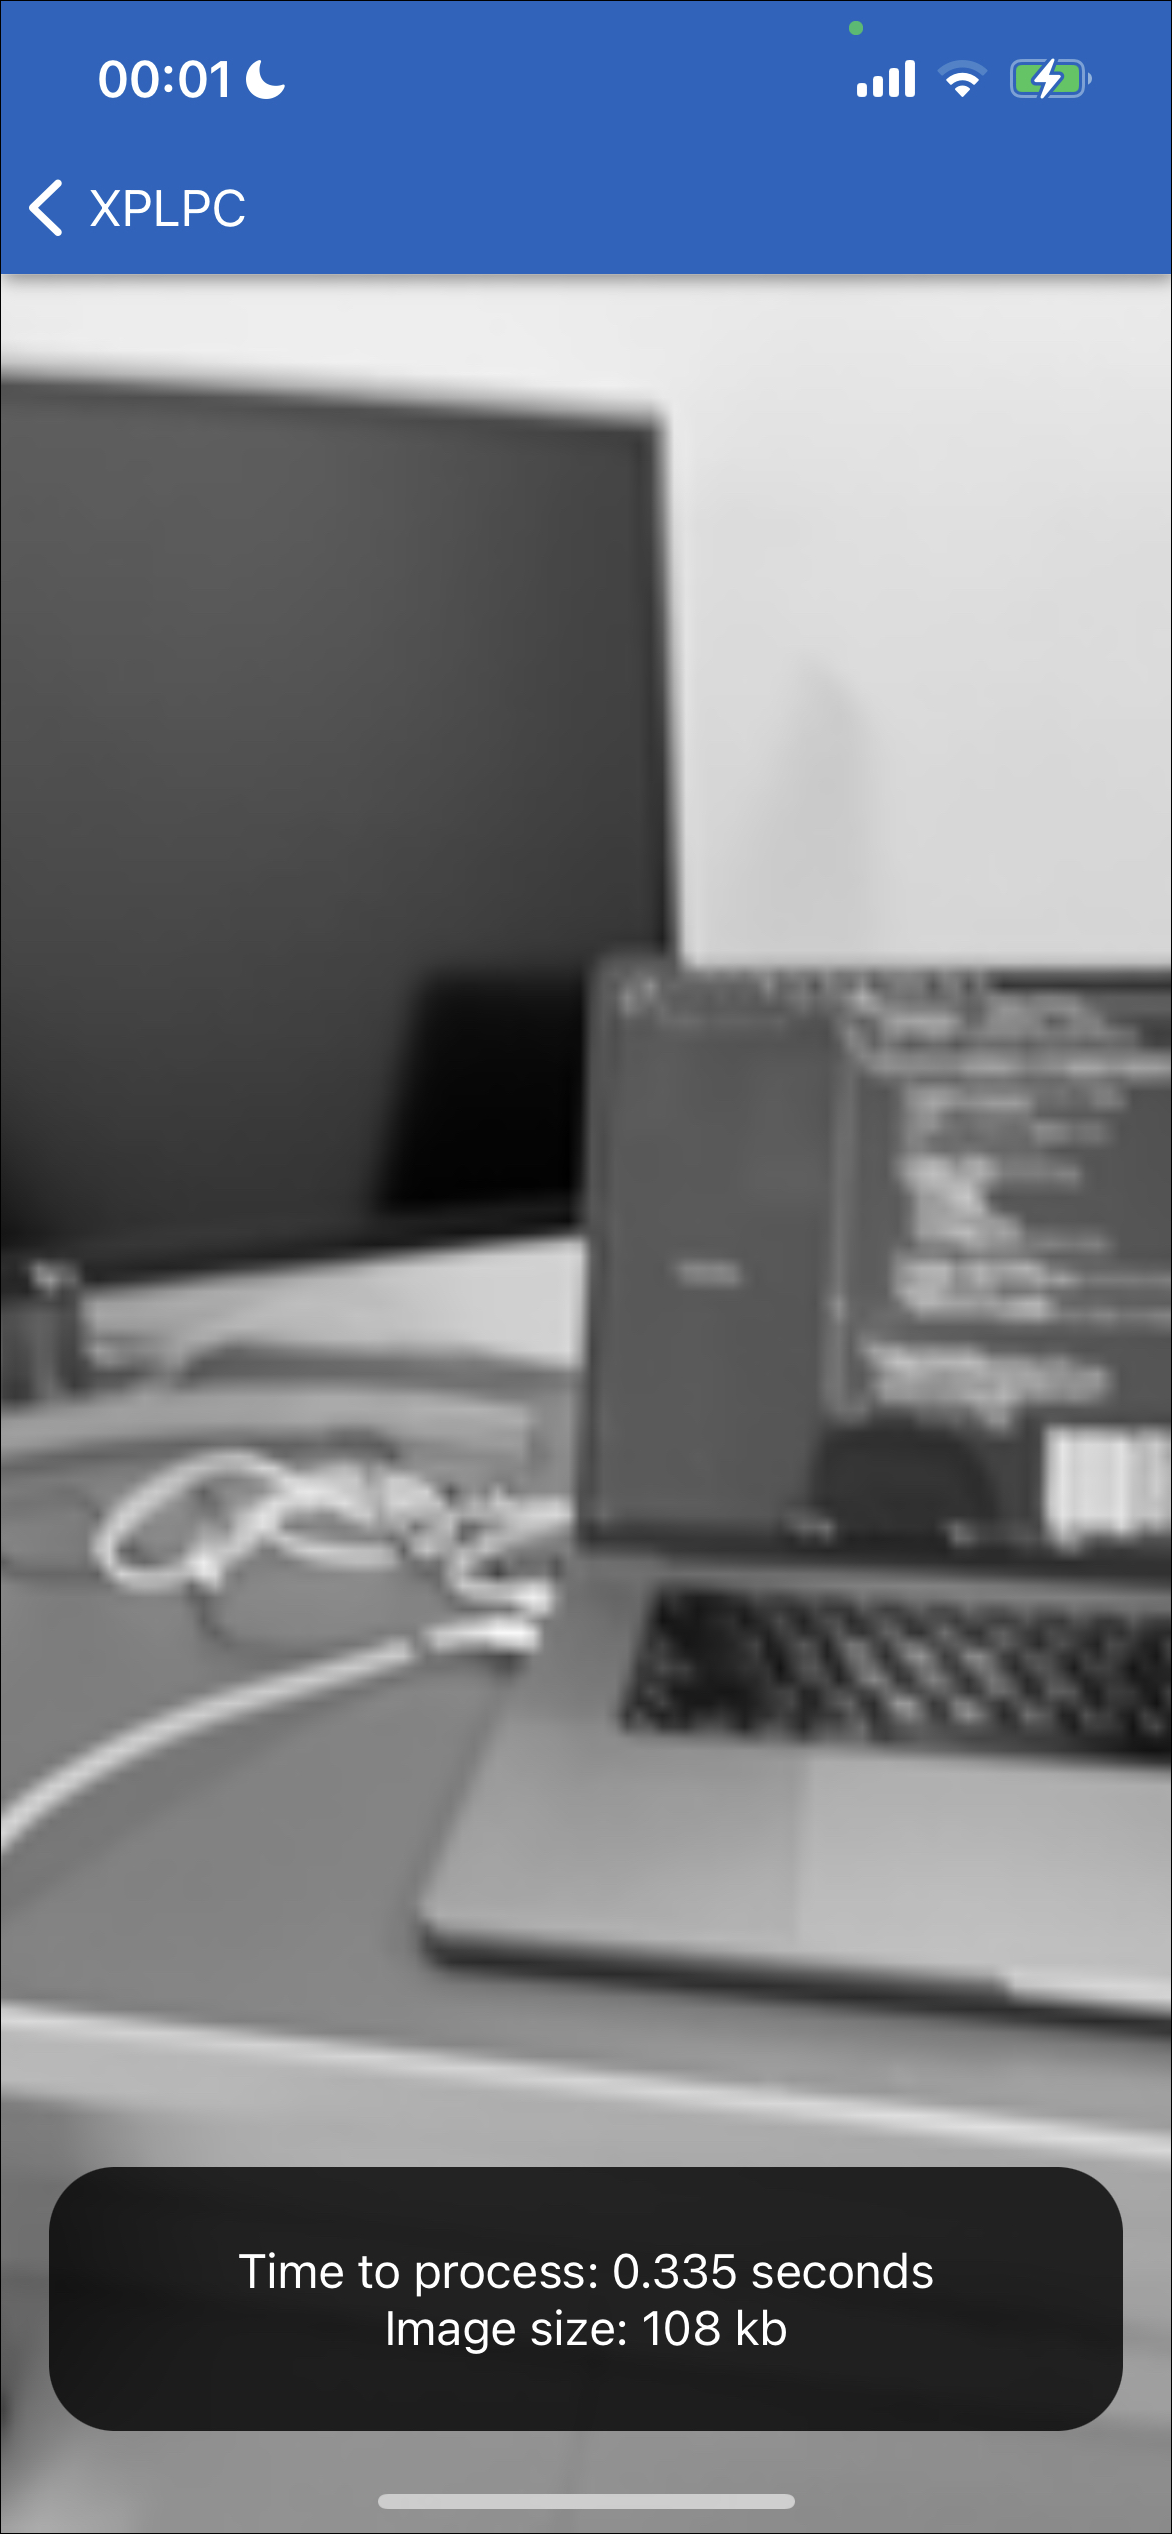
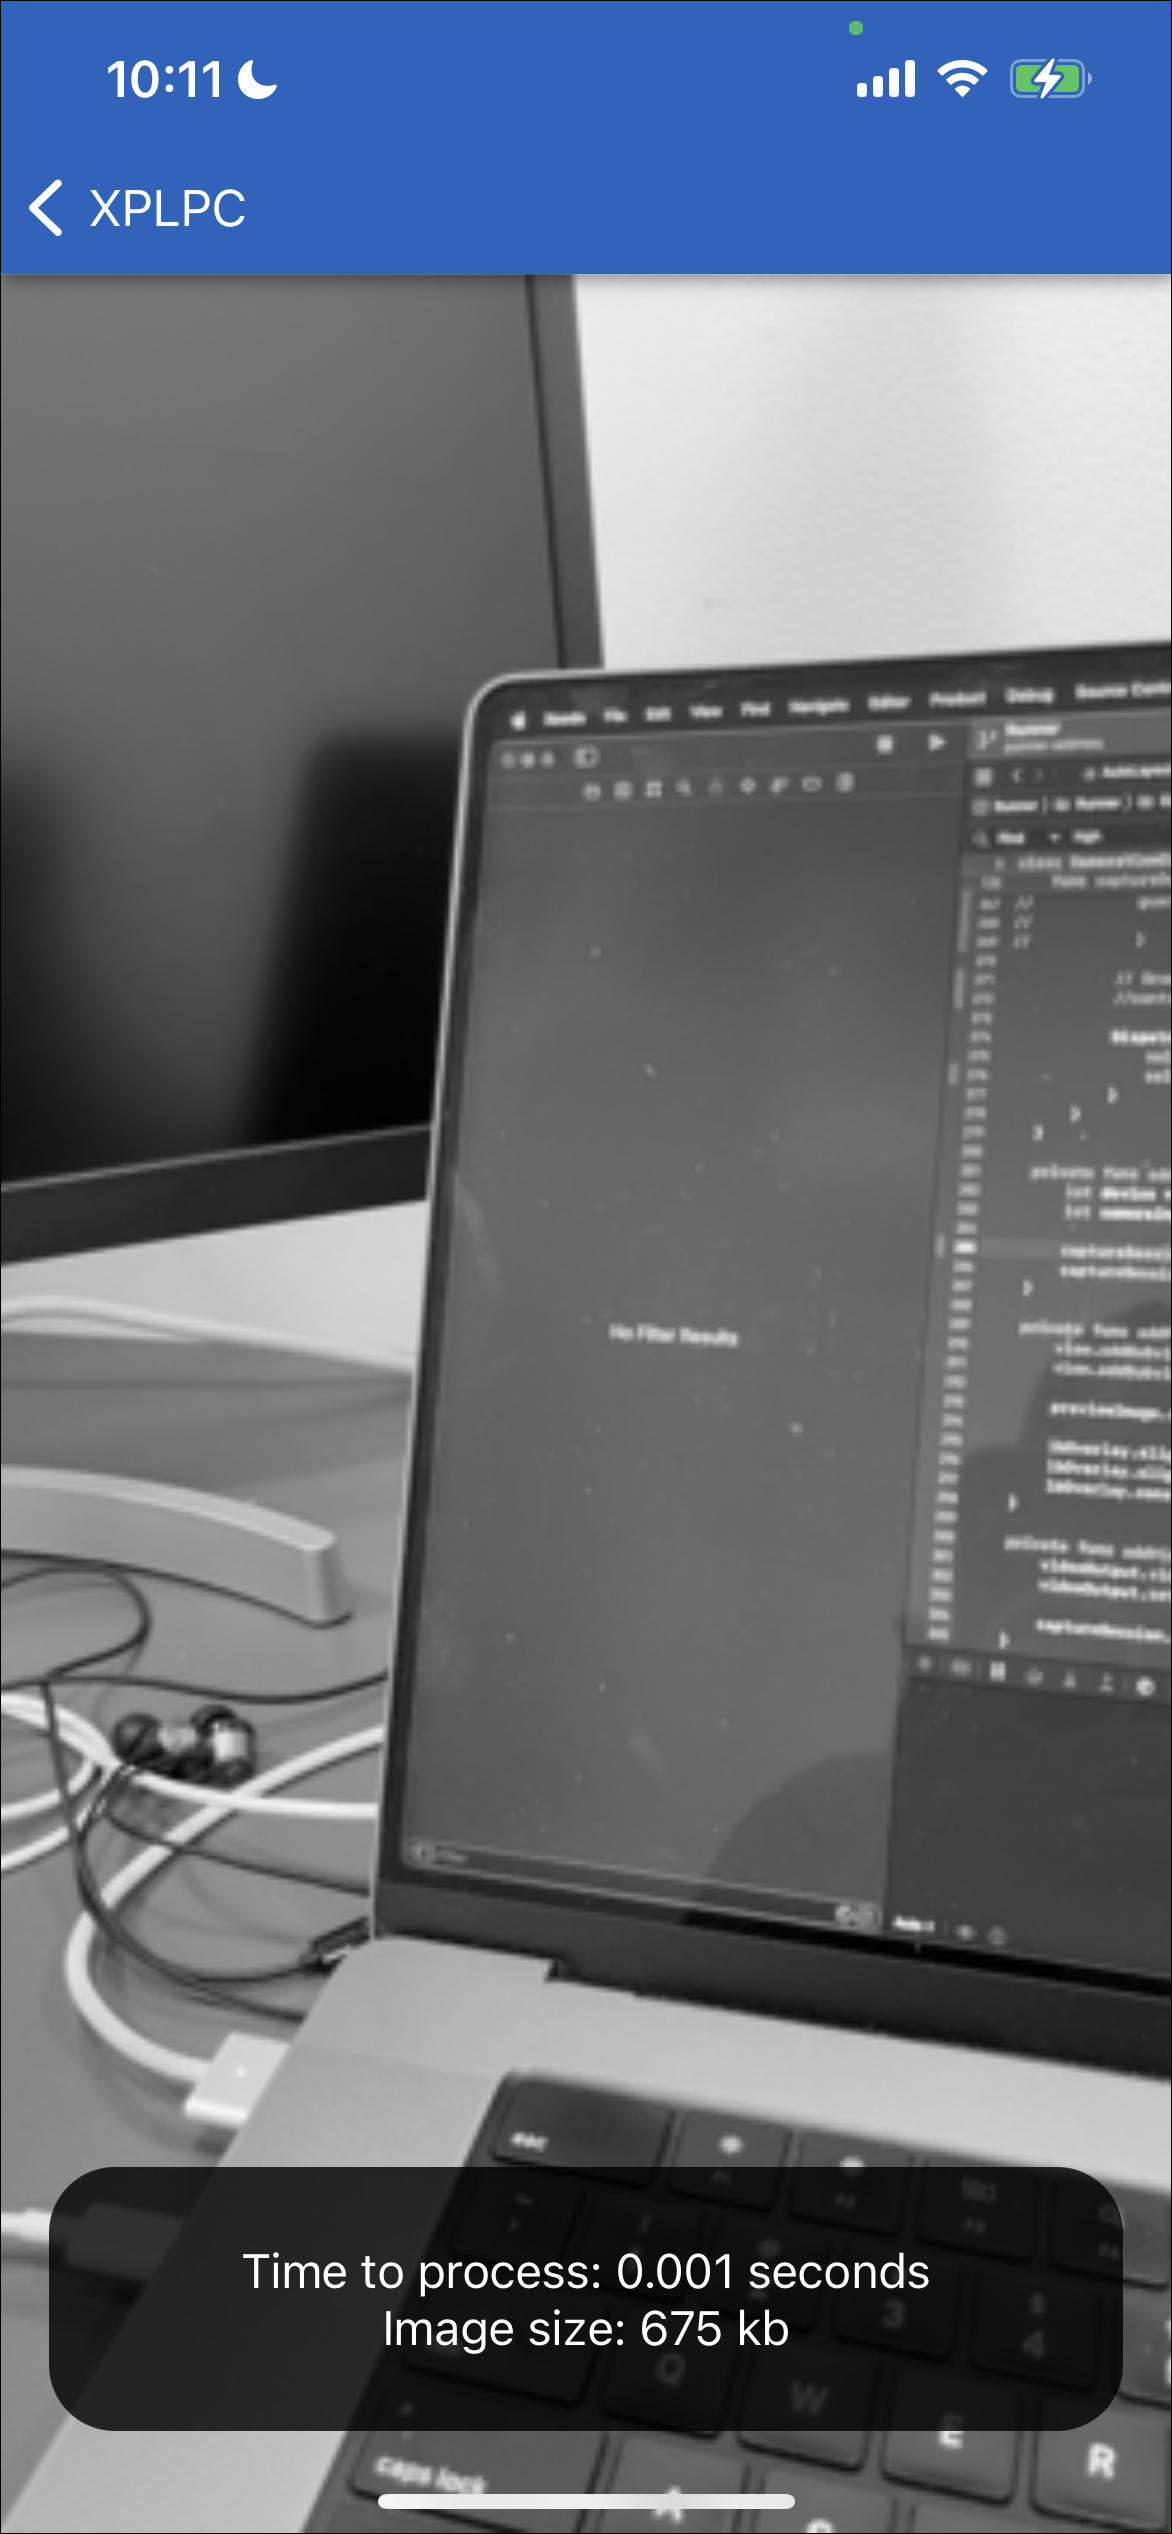
use pointer address

diff --git a/swift/sample/Runner/Controllers/CameraViewController.swift b/swift/sample/Runner/Controllers/CameraViewController.swift
@@ -54,45 +54,40 @@ class CameraViewController: UIViewController, AVCaptureVideoDataOutputSampleBuff
             return
         }
 
-        // lock
-        let status = CVPixelBufferLockBaseAddress(frame, CVPixelBufferLockFlags(rawValue: 0))
-
-        if status != kCVReturnSuccess {
-            debugPrint("[CameraViewController : captureOutput] Unable to lock buffer base address")
-            return
-        }
-
-        // base address
-        guard let baseAddress = CVPixelBufferGetBaseAddress(frame) else {
-            debugPrint("[CameraViewController : captureOutput] Unable to get base address")
-            return
-        }
-
-        // image data
-        let size = CVPixelBufferGetDataSize(frame)
-
+        // image size
         #if DEBUG
-            print("Image size is: \(size)")
+            let size = CVPixelBufferGetDataSize(frame)
+            print("[CameraViewController : captureOutput] Image size is: \(size)")
         #endif
 
-        let data = Data(bytesNoCopy: baseAddress, count: size, deallocator: .none)
-        let width = CVPixelBufferGetWidth(frame)
-        let height = CVPixelBufferGetHeight(frame)
+        // temporary image
+        let tempImage = ImageHelper.imageFromSampleBuffer(sampleBuffer: sampleBuffer, orientation: orientation)
+        let buffer = ImageHelper.getRGBABytes(from: tempImage)
+        let bufferSize = buffer.count
 
-        CVPixelBufferUnlockBaseAddress(frame, CVPixelBufferLockFlags(rawValue: 0))
+        // image dimension
+        let width = Int(tempImage.size.width)
+        let height = Int(tempImage.size.height)
+
+        #if DEBUG
+            print("[CameraViewController : captureOutput] Buffer size is: \(bufferSize)")
+        #endif
+
+        // pointer data
+        let pointerAddress = ByteArrayHelper.getPointerAddress(array: buffer)
 
         // convert
         let startTime = CFAbsoluteTimeGetCurrent()
 
         let request = Request(
-            "sample.image.grayscale",
-            Param("image", data),
+            "sample.image.grayscale.pointer",
+            Param("pointer", pointerAddress),
             Param("width", width),
             Param("height", height)
         )
 
-        RemoteClient.call(request) { (response: [UInt8]?) in
-            guard let response else {
+        RemoteClient.call(request) { (response: String?) in
+            guard response != nil else {
                 debugPrint("[CameraViewController : captureOutput] Unable to get response data")
                 return
             }
@@ -101,25 +96,12 @@ class CameraViewController: UIViewController, AVCaptureVideoDataOutputSampleBuff
             let duration = Float(elapsedTime)
 
             #if DEBUG
-                print("Time to process was: \(duration) seconds")
+                print("[CameraViewController : captureOutput] Time to process was: \(duration) seconds")
             #endif
 
-            // create new image with received data
-            var pixelData = response
-            let colorSpace = CGColorSpaceCreateDeviceRGB()
-            let context = CGContext(
-                data: &pixelData,
-                width: Int(width),
-                height: Int(height),
-                bitsPerComponent: 8,
-                bytesPerRow: 4 * Int(width),
-                space: colorSpace,
-                bitmapInfo: CGImageAlphaInfo.noneSkipLast.rawValue
-            )
+            let finalImage = ImageHelper.rgbaBytesToUIImage(imageData: buffer, width: width, height: height)
 
-            let quartzImage = context?.makeImage()
-            let finalImage = CIImage(cgImage: quartzImage!).orientationCorrectedImage(orientation: orientation)
-
+            // draw image
             DispatchQueue.main.async {
                 self.previewImage.image = finalImage
                 self.lbOverlay.text = String(format: "Time to process: %.3f seconds\nImage size: %d kb", duration, size / 1024)
@@ -131,7 +113,7 @@ class CameraViewController: UIViewController, AVCaptureVideoDataOutputSampleBuff
         let device = AVCaptureDevice.default(for: .video)!
         let cameraInput = try! AVCaptureDeviceInput(device: device)
 
-        captureSession.sessionPreset = AVCaptureSession.Preset.low
+        captureSession.sessionPreset = AVCaptureSession.Preset.medium
         captureSession.addInput(cameraInput)
     }
 

diff --git a/swift/sample/Runner/Helper/ImageHelper.swift b/swift/sample/Runner/Helper/ImageHelper.swift
@@ -1,0 +1,86 @@
+import AVFoundation
+import Foundation
+import UIKit
+
+class ImageHelper {
+    static func imageFromSampleBuffer(sampleBuffer: CMSampleBuffer, orientation: UIInterfaceOrientation) -> UIImage {
+        // get a sample buffer's for the media data
+        let imageBuffer = CMSampleBufferGetImageBuffer(sampleBuffer)
+
+        // lock the base address of the pixel buffer
+        CVPixelBufferLockBaseAddress(imageBuffer!, CVPixelBufferLockFlags.readOnly)
+
+        // get the number of bytes per row for the pixel buffer
+        let baseAddress = CVPixelBufferGetBaseAddress(imageBuffer!)
+
+        // get the number of bytes per row for the pixel buffer
+        let bytesPerRow = CVPixelBufferGetBytesPerRow(imageBuffer!)
+
+        // get the pixel buffer width and height
+        let width = CVPixelBufferGetWidth(imageBuffer!)
+        let height = CVPixelBufferGetHeight(imageBuffer!)
+
+        // create a device-dependent RGB color space
+        let colorSpace = CGColorSpaceCreateDeviceRGB()
+
+        // create a bitmap graphics context with the sample buffer data
+        var bitmapInfo: UInt32 = CGBitmapInfo.byteOrder32Little.rawValue
+        bitmapInfo |= CGImageAlphaInfo.premultipliedFirst.rawValue & CGBitmapInfo.alphaInfoMask.rawValue
+
+        let context = CGContext(data: baseAddress, width: width, height: height, bitsPerComponent: 8, bytesPerRow: bytesPerRow, space: colorSpace, bitmapInfo: bitmapInfo)
+
+        // create a quartz image from the pixel data in the bitmap graphics context
+        let quartzImage = context?.makeImage()
+
+        // unlock the pixel buffer
+        CVPixelBufferUnlockBaseAddress(imageBuffer!, CVPixelBufferLockFlags.readOnly)
+
+        // create an image object from the Quartz image
+        return CIImage(cgImage: quartzImage!).orientationCorrectedImage(orientation: orientation)!
+    }
+
+    static func getRGBABytes(from image: UIImage) -> [UInt8] {
+        // convert the UIImage to a CGImage
+        guard let cgImage = image.cgImage else {
+            return []
+        }
+
+        // get the width, height and bytesPerRow of the image
+        let width = cgImage.width
+        let height = cgImage.height
+        let bytesPerRow = cgImage.bytesPerRow
+
+        // create a uint8_t array to store the image data
+        var imageData = [UInt8](repeating: 0, count: height * bytesPerRow)
+
+        // get the image data from the CGImage
+        let dataProvider = cgImage.dataProvider!
+        let data = dataProvider.data!
+        let dataPointer = CFDataGetBytePtr(data)
+
+        // copy the RGBA bytes into the uint8_t array
+        for row in 0 ..< height {
+            for col in 0 ..< width {
+                let offset = bytesPerRow * row + col * 4
+                imageData[offset] = dataPointer![offset]
+                imageData[offset + 1] = dataPointer![offset + 1]
+                imageData[offset + 2] = dataPointer![offset + 2]
+                imageData[offset + 3] = dataPointer![offset + 3]
+            }
+        }
+
+        return imageData
+    }
+
+    static func rgbaBytesToUIImage(imageData: [UInt8], width: Int, height: Int) -> UIImage? {
+        let bitsPerComponent = 8
+        let bitsPerPixel = 32
+        let bytesPerRow = width * 4
+        let colorSpace = CGColorSpaceCreateDeviceRGB()
+        let bitmapInfo = CGBitmapInfo(rawValue: CGImageAlphaInfo.premultipliedLast.rawValue)
+        let provider = CGDataProvider(data: Data(imageData) as CFData)
+        let cgImage = CGImage(width: width, height: height, bitsPerComponent: bitsPerComponent, bitsPerPixel: bitsPerPixel, bytesPerRow: bytesPerRow, space: colorSpace, bitmapInfo: bitmapInfo, provider: provider!, decode: nil, shouldInterpolate: true, intent: .defaultIntent)
+
+        return UIImage(cgImage: cgImage!)
+    }
+}

diff --git a/swift/lib/Sources/Helper/ByteArrayHelper.swift b/swift/lib/Sources/Helper/ByteArrayHelper.swift
@@ -1,0 +1,21 @@
+public class ByteArrayHelper {
+    public static func getPointerAddress(array: [UInt8]) -> UInt {
+        var pointerAddress: UInt = 0
+
+        array.withUnsafeBytes { (bytes: UnsafeRawBufferPointer) in
+            guard let baseAddress = bytes.baseAddress else {
+                return
+            }
+            pointerAddress = UInt(bitPattern: baseAddress)
+        }
+
+        return pointerAddress
+    }
+
+    public static func getByteArrayFromPointerAddress(pointerAddress: UInt, count: Int) -> [UInt8] {
+        let bytePointer = UnsafeMutableRawPointer(bitPattern: pointerAddress)!
+        let bufferPointer = bytePointer.bindMemory(to: UInt8.self, capacity: count)
+        let byteArray = Array(UnsafeBufferPointer(start: bufferPointer, count: count))
+        return byteArray
+    }
+}

diff --git a/kotlin/sample/app/src/main/java/com/xplpc/runner/activity/CameraActivity.kt b/kotlin/sample/app/src/main/java/com/xplpc/runner/activity/CameraActivity.kt
@@ -18,7 +18,7 @@ import com.xplpc.message.Param
 import com.xplpc.message.Request
 import com.xplpc.runner.R
 import com.xplpc.runner.databinding.ActivityCameraBinding
-import com.xplpc.util.ByteBufferHelper
+import com.xplpc.helper.ByteBufferHelper
 import kotlinx.coroutines.CoroutineScope
 import kotlinx.coroutines.Dispatchers
 import java.nio.ByteBuffer

diff --git a/kotlin/lib/library/src/main/java/com/xplpc/helper/ByteBufferHelper.kt b/kotlin/lib/library/src/main/java/com/xplpc/helper/ByteBufferHelper.kt
@@ -1,4 +1,4 @@
-package com.xplpc.util
+package com.xplpc.helper
 
 import java.nio.ByteBuffer
 

diff --git a/jni/lib/src/xplpc/jni/platform.cpp b/jni/lib/src/xplpc/jni/platform.cpp
@@ -55,7 +55,7 @@ extern "C"
     }
 
     JNIEXPORT jlong JNICALL
-    Java_com_xplpc_util_ByteBufferHelper_getByteBufferAddress(JNIEnv *env, jobject /*thiz*/, jobject array)
+    Java_com_xplpc_helper_ByteBufferHelper_getByteBufferAddress(JNIEnv *env, jobject /*thiz*/, jobject array)
     {
         auto pointer = reinterpret_cast<uint8_t *>(env->GetDirectBufferAddress(array));
         auto address = reinterpret_cast<std::uintptr_t>(pointer);
@@ -63,7 +63,7 @@ extern "C"
     }
 
     JNIEXPORT jobject JNICALL
-    Java_com_xplpc_util_ByteBufferHelper_getByteBufferFromAddress(JNIEnv *env, jobject /*thiz*/, jlong address, jint size)
+    Java_com_xplpc_helper_ByteBufferHelper_getByteBufferFromAddress(JNIEnv *env, jobject /*thiz*/, jlong address, jint size)
     {
         jclass directByteBuffer = env->FindClass("java/nio/DirectByteBuffer");
         jmethodID newDirectByteBuffer = env->GetStaticMethodID(directByteBuffer, "allocateDirect", "(I)Ljava/nio/ByteBuffer;");

diff --git a/core/config.py b/core/config.py
@@ -3,8 +3,7 @@ debug = False
 task = ""
 proj_path = ""
 
-# TODO: XPLPC - Return to Release
-build_type = "Debug"
+build_type = "Release"
 
 # swift
 swift_framework_list = [
